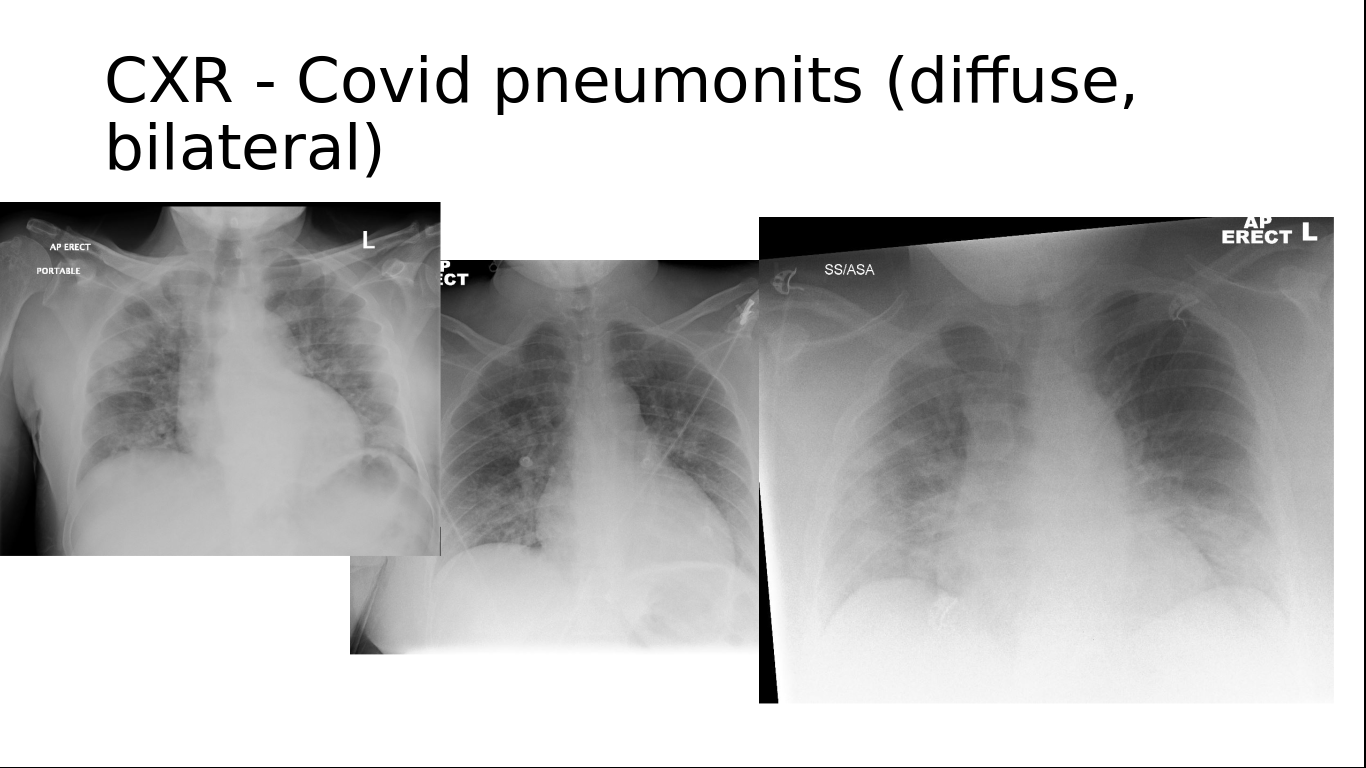
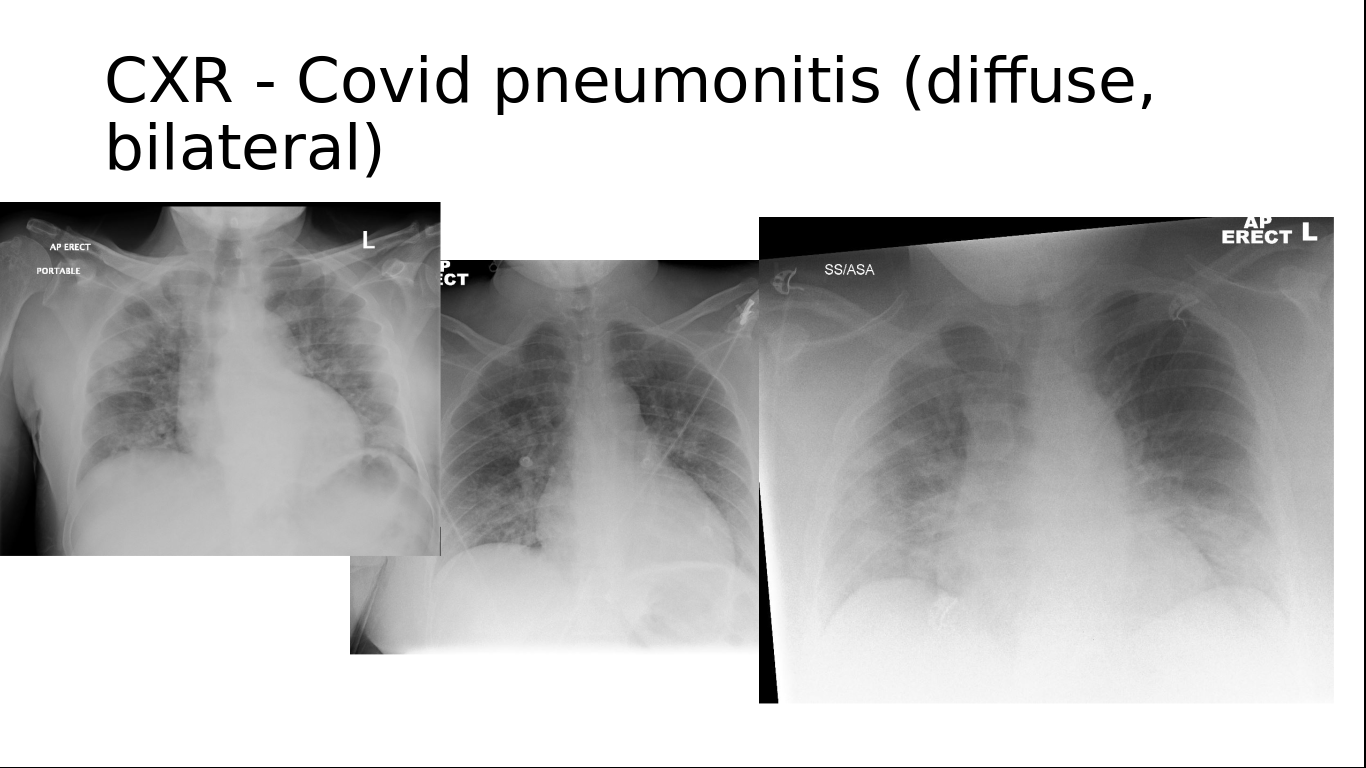
update

Changed region(s): [[0.6149, 0.0625, 0.8302, 0.1562]]

diff --git a/index.html b/index.html
@@ -127,14 +127,14 @@
 <ul>
 <li>Droplet (dominant means of transmission, can’t travel more than 1m, can persist on surfaces, surgical mask helpful).</li>
 <li>Aerosol transmission (can travel more than 1m, surgical mask not helpful).</li>
-<li>Social distancing, hand hygiene, and in a hosp setting appropriate use of PPE are important.</li>
+<li>Social distancing, hand hygiene, and in a hospital setting <a href="https://assets.publishing.service.gov.uk/government/uploads/system/uploads/attachment_data/file/874411/When_to_use_face_mask_or_FFP3.pdf">appropriate use of PPE</a> are important.</li>
 </ul>
 </section>
 <section id="section-12" class="slide level1">
 <h1></h1>
 <ul>
 <li><p>Be aware of aerosol generating procedures (AGP) including intubation, extubation and related procedures, tracheotomy/tracheostomy procedures, manual ventilation, open suctioning, bronchoscopy, non-invasive ventilation (NIV) e.g. Bi-level Positive Airway Pressure (BiPAP) and Continuous Positive Airway Pressure ventilation (CPAP), surgery and post-mortem procedures in which high-speed devices are used, high-frequency oscillating ventilation (HFOV), high-flow Nasal Oxygen (HFNO), induction of sputum, some dental procedures (e.g. high speed drilling).</p></li>
-<li><p>Wear appropriate PPE if you are exposed to AGP (at time of writing this is FFP3 as a minimum); make sure you learn to <a href="https://www.cdc.gov/hai/pdfs/ppe/ppe-sequence.pdf">doff and don PPE safely (having a buddy helps)</a></p></li>
+<li><p><a href="https://assets.publishing.service.gov.uk/government/uploads/system/uploads/attachment_data/file/874411/When_to_use_face_mask_or_FFP3.pdf">Wear appropriate PPE</a> if you are exposed to AGP (at time of writing this is FFP3 as a minimum); make sure you learn to <a href="https://www.cdc.gov/hai/pdfs/ppe/ppe-sequence.pdf">doff and don PPE safely (having a buddy helps)</a></p></li>
 </ul>
 </section>
 <section id="section-13" class="slide level1">
@@ -172,77 +172,82 @@
 <ul>
 <li>Investigations to confirm diagnosis (and rule out differentials) and grade severity</li>
 <li>Basics include SpO2 (+/- arterial blood gas), full blood count (lymphopenia common), U&amp;Es, LFTs, CRP, troponin and D-dimer (both associated with increased mortality), CXR (bilateral infiltrates), nasopharyngeal and oropharyngeal swabs and sputum for micro (there’s a molecular test), serological test soon</li>
+</ul>
+</section>
+<section id="section-18" class="slide level1">
+<h1></h1>
+<ul>
 <li>Even with ‘gold standard’ testing (multiple micro samples) and CT chest sensitivity and specificity only around 90% i.e false-negative and false-positive results are seen.</li>
 </ul>
 </section>
-<section id="section-18" class="slide level1" data-background="images/covid_cxrs.png">
+<section id="section-19" class="slide level1" data-background="images/covid_cxrs.png">
 <h1 data-background="images/covid_cxrs.png"></h1>
 </section>
-<section id="section-19" class="slide level1">
+<section id="section-20" class="slide level1">
 <h1></h1>
 <ul>
 <li>Management is largely supportive (several ongoing drug trials and vaccine development efforts; no drugs proven safe and effective yet) and prognosis good for most people infected (naturally much less good for subset of patients unwell enough for hospital admission)</li>
 </ul>
 </section>
-<section id="section-20" class="slide level1">
+<section id="section-21" class="slide level1">
 <h1></h1>
 <ul>
 <li>Important to consider non-COVID-19 disease</li>
 </ul>
 </section>
-<section id="section-21" class="slide level1">
-<h1></h1>
-<ul>
-<li>important to isolate patient and take appropriate respiratory precautions</li>
-</ul>
-</section>
 <section id="section-22" class="slide level1">
 <h1></h1>
 <ul>
-<li>important to consider, and discuss with patients and document ceilings of care; clinical frailty score can be helpful in assessing who is likely to benefit from critical care.</li>
+<li>Important to isolate patient and take appropriate respiratory precautions</li>
 </ul>
 </section>
 <section id="section-23" class="slide level1">
 <h1></h1>
 <ul>
-<li>important to be careful with fluids (no role unless pt is shocked, might make oxygenation worse), steroids (no role, likely to increase mortality), no role for routine antipyretic administration to treat fever</li>
+<li>Important to consider, and discuss with patients and document ceilings of care; clinical frailty score can be helpful in assessing who is likely to benefit from critical care.</li>
 </ul>
 </section>
 <section id="section-24" class="slide level1">
 <h1></h1>
 <ul>
-<li>important to escalate early (if pt is for escalation) and requiring increase respiratory support and/or multiple organ support</li>
+<li>Important to be careful with fluids (no role unless pt is shocked, might make oxygenation worse), steroids (no role, likely to increase mortality), no role for routine antipyretic administration to treat fever</li>
 </ul>
 </section>
 <section id="section-25" class="slide level1">
 <h1></h1>
 <ul>
-<li>important to use appropriate PPE (we can’t look after our patients if don’t look after ourselves), to not be at work if you, or someone in your household, shows symptoms (follow PHE and local guidelines). important to check if you should be at work or not if you’re pregnant, have a pre-existing medical condition, or take immunosuppressants.</li>
+<li>Important to escalate early (if pt is for escalation) and requiring increase respiratory support and/or multiple organ support</li>
+</ul>
+</section>
+<section id="section-26" class="slide level1">
+<h1></h1>
+<ul>
+<li>Important to use appropriate PPE (we can’t look after our patients if don’t look after ourselves), to not be at work if you, or someone in your household, shows symptoms (follow PHE and local guidelines). important to check if you should be at work or not if you’re pregnant, have a pre-existing medical condition, or take immunosuppressants.</li>
 </ul>
 </section>
 <section id="useful-contacts" class="slide level1">
 <h1>Useful contacts</h1>
 </section>
-<section id="section-26" class="slide level1">
+<section id="section-27" class="slide level1">
 <h1></h1>
 <ul>
 <li>COVID team, ITU, Palliative care, Site manager, Bed manager, Psych liason, Infection protection control</li>
-<li>induction is app usually good</li>
+<li>Induction is app usually good</li>
 </ul>
 </section>
 <section id="nota-bene" class="slide level1">
 <h1>nota bene</h1>
 </section>
-<section id="section-27" class="slide level1">
+<section id="section-28" class="slide level1">
 <h1></h1>
 <ul>
-<li>it’s a pandemic; demand will outstrip supply, we all need to pull together to do the best we can for our patients with the limited resource we have, we will all have important parts to play, no task that helps our patients is too small (and none of us are too big for any task that helps our patients)</li>
+<li>It’s a pandemic; demand will outstrip supply, we all need to pull together to do the best we can for our patients with the limited resource we have, we will all have important parts to play, no task that helps our patients is too small (and none of us are too big for any task that helps our patients)</li>
 </ul>
 </section>
 <section id="references-further-reading" class="slide level1">
 <h1>References / further reading</h1>
 </section>
-<section id="section-28" class="slide level1">
+<section id="section-29" class="slide level1">
 <h1></h1>
 <ul>
 <li>https://bestpractice.bmj.com/topics/en-gb/3000168</li>

diff --git a/covid-19-cxh-slides.md b/covid-19-cxh-slides.md
@@ -65,13 +65,13 @@ At the conclusion of this activity, participants will be able to...
 
 - Droplet (dominant means of transmission, can't travel more than 1m, can persist on surfaces, surgical mask helpful).
 - Aerosol transmission (can travel more than 1m, surgical mask not helpful).
-- Social distancing, hand hygiene, and in a hosp setting appropriate use of PPE are important.
+- Social distancing, hand hygiene, and in a hospital setting [appropriate use of PPE](https://assets.publishing.service.gov.uk/government/uploads/system/uploads/attachment_data/file/874411/When_to_use_face_mask_or_FFP3.pdf) are important.
 
 #
 
 - Be aware of aerosol generating procedures (AGP) including intubation, extubation and related procedures, tracheotomy/tracheostomy procedures, manual ventilation, open suctioning, bronchoscopy, non-invasive ventilation (NIV) e.g. Bi-level Positive Airway Pressure (BiPAP) and Continuous Positive Airway Pressure ventilation (CPAP), surgery and post-mortem procedures in which high-speed devices are used, high-frequency oscillating ventilation (HFOV), high-flow Nasal Oxygen (HFNO), induction of sputum, some dental procedures (e.g. high speed drilling).
 
-- Wear appropriate PPE if you are exposed to AGP (at time of writing this is FFP3 as a minimum); make sure you learn to [doff and don PPE safely (having a buddy helps)](https://www.cdc.gov/hai/pdfs/ppe/ppe-sequence.pdf)
+- [Wear appropriate PPE](https://assets.publishing.service.gov.uk/government/uploads/system/uploads/attachment_data/file/874411/When_to_use_face_mask_or_FFP3.pdf) if you are exposed to AGP (at time of writing this is FFP3 as a minimum); make sure you learn to [doff and don PPE safely (having a buddy helps)](https://www.cdc.gov/hai/pdfs/ppe/ppe-sequence.pdf)
 
 # 
 
@@ -99,6 +99,9 @@ certainly on arriving home, and wash clothes just as you normally would (virus d
 
 - Investigations to confirm diagnosis (and rule out differentials) and grade severity
 - Basics include SpO2 (+/- arterial blood gas), full blood count (lymphopenia common), U&Es, LFTs, CRP, troponin and D-dimer (both associated with increased mortality), CXR (bilateral infiltrates), nasopharyngeal and oropharyngeal swabs and sputum for micro (there's a molecular test), serological test soon
+
+# 
+
 - Even with 'gold standard' testing (multiple micro samples) and CT chest sensitivity and specificity only around 90% i.e false-negative and false-positive results are seen.
 
 # {data-background="images/covid_cxrs.png"}
@@ -114,36 +117,36 @@ certainly on arriving home, and wash clothes just as you normally would (virus d
 
 #
 
-- important to isolate patient and take appropriate respiratory precautions
+- Important to isolate patient and take appropriate respiratory precautions
 
 #
 
-- important to consider, and discuss with patients and document ceilings of care; clinical frailty score can be helpful in assessing who is likely to benefit from critical care.
+- Important to consider, and discuss with patients and document ceilings of care; clinical frailty score can be helpful in assessing who is likely to benefit from critical care.
 
 #
 
-- important to be careful with fluids (no role unless pt is shocked, might make oxygenation worse), steroids (no role, likely to increase mortality), no role for routine antipyretic administration to treat fever
+- Important to be careful with fluids (no role unless pt is shocked, might make oxygenation worse), steroids (no role, likely to increase mortality), no role for routine antipyretic administration to treat fever
 
 #
 
-- important to escalate early (if pt is for escalation) and requiring increase respiratory support and/or multiple organ support
+- Important to escalate early (if pt is for escalation) and requiring increase respiratory support and/or multiple organ support
 
 #
 
-- important to use appropriate PPE (we can't look after our patients if don't look after ourselves), to not be at work if you, or someone in your household, shows symptoms (follow PHE and local guidelines). important to check if you should be at work or not if you're pregnant, have a pre-existing medical condition, or take immunosuppressants.
+- Important to use appropriate PPE (we can't look after our patients if don't look after ourselves), to not be at work if you, or someone in your household, shows symptoms (follow PHE and local guidelines). important to check if you should be at work or not if you're pregnant, have a pre-existing medical condition, or take immunosuppressants.
 
 # Useful contacts
 
 #
 
 - COVID team, ITU, Palliative care, Site manager, Bed manager, Psych liason, Infection protection control
-- induction is app usually good
+- Induction is app usually good
 
 # nota bene
 
 #
 
-- it's a pandemic; demand will outstrip supply, we all need to pull together to do the best we can for our patients with the limited resource we have, we will all have important parts to play, no task that helps our patients is too small (and none of us are too big for any task that helps our patients)
+- It's a pandemic; demand will outstrip supply, we all need to pull together to do the best we can for our patients with the limited resource we have, we will all have important parts to play, no task that helps our patients is too small (and none of us are too big for any task that helps our patients)
 
 # References / further reading
 
